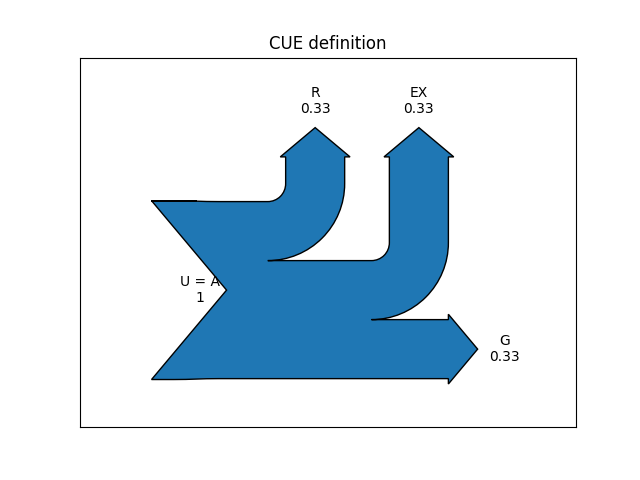
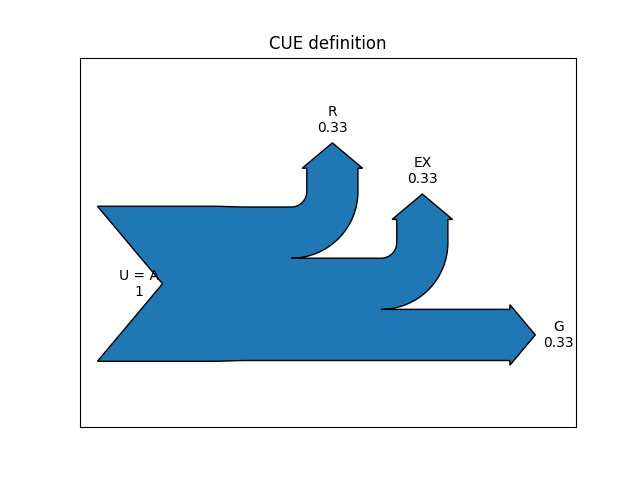
Pretify plot

Changed region(s): [[0.1562, 0.1875, 0.9062, 0.8125], [0.4062, 0.1875, 0.7188, 0.5625], [0.6875, 0.5, 0.7188, 0.5625]]

diff --git a/snakey_dev.py b/snakey_dev.py
@@ -15,9 +15,11 @@ from matplotlib.sankey import Sankey
 # plt.savefig("sankey_ex_01.png")
 ################################################################################
 # Made up FBA results
-Sankey(flows=[1, -0.33, -0.33, -0.33],
-       labels=['U = A', 'R', 'EX', 'G'],
-       orientations=[0, 1, 1, 0]).finish()
+Sankey(flows = [1, -0.33, -0.33, -0.33],
+       labels = ['U = A', 'R', 'EX', 'G'],
+       orientations = [0, 1, 1, 0],
+       pathlengths = [0.6, 0.25, 0.25, 0.4]).finish()
 plt.title("CUE definition")
 plt.savefig("sankey_ex_02.png")
+
 
